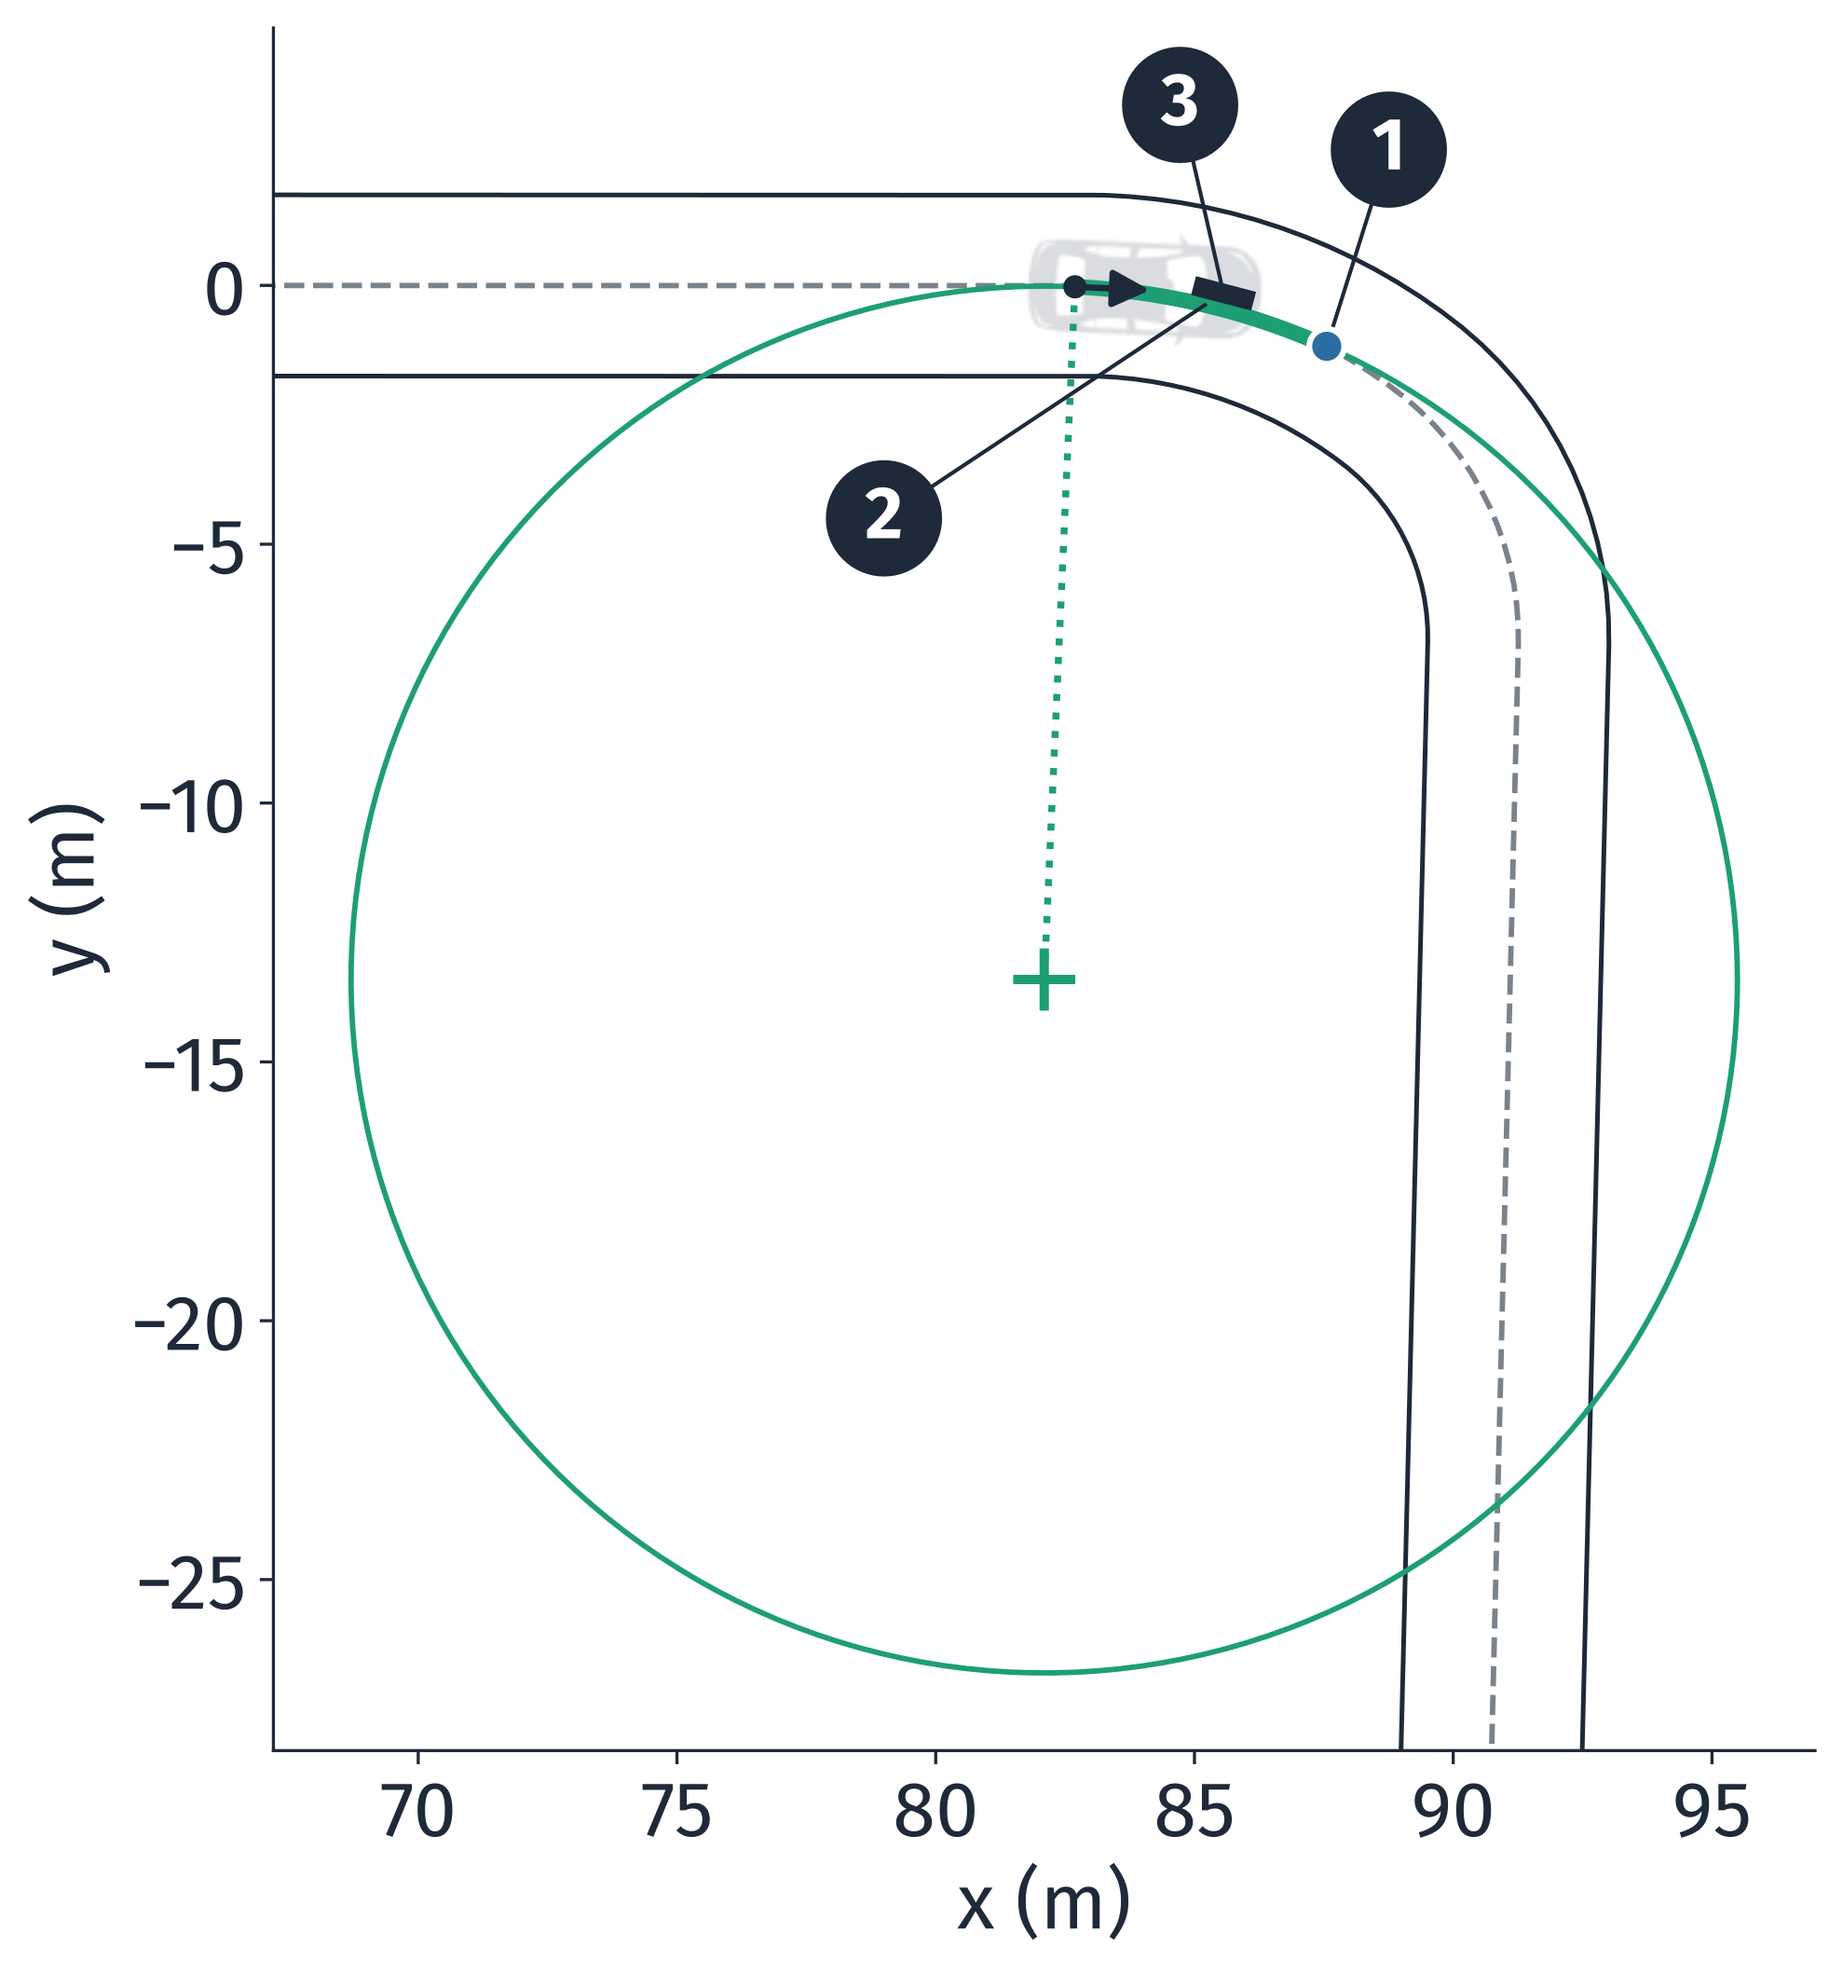
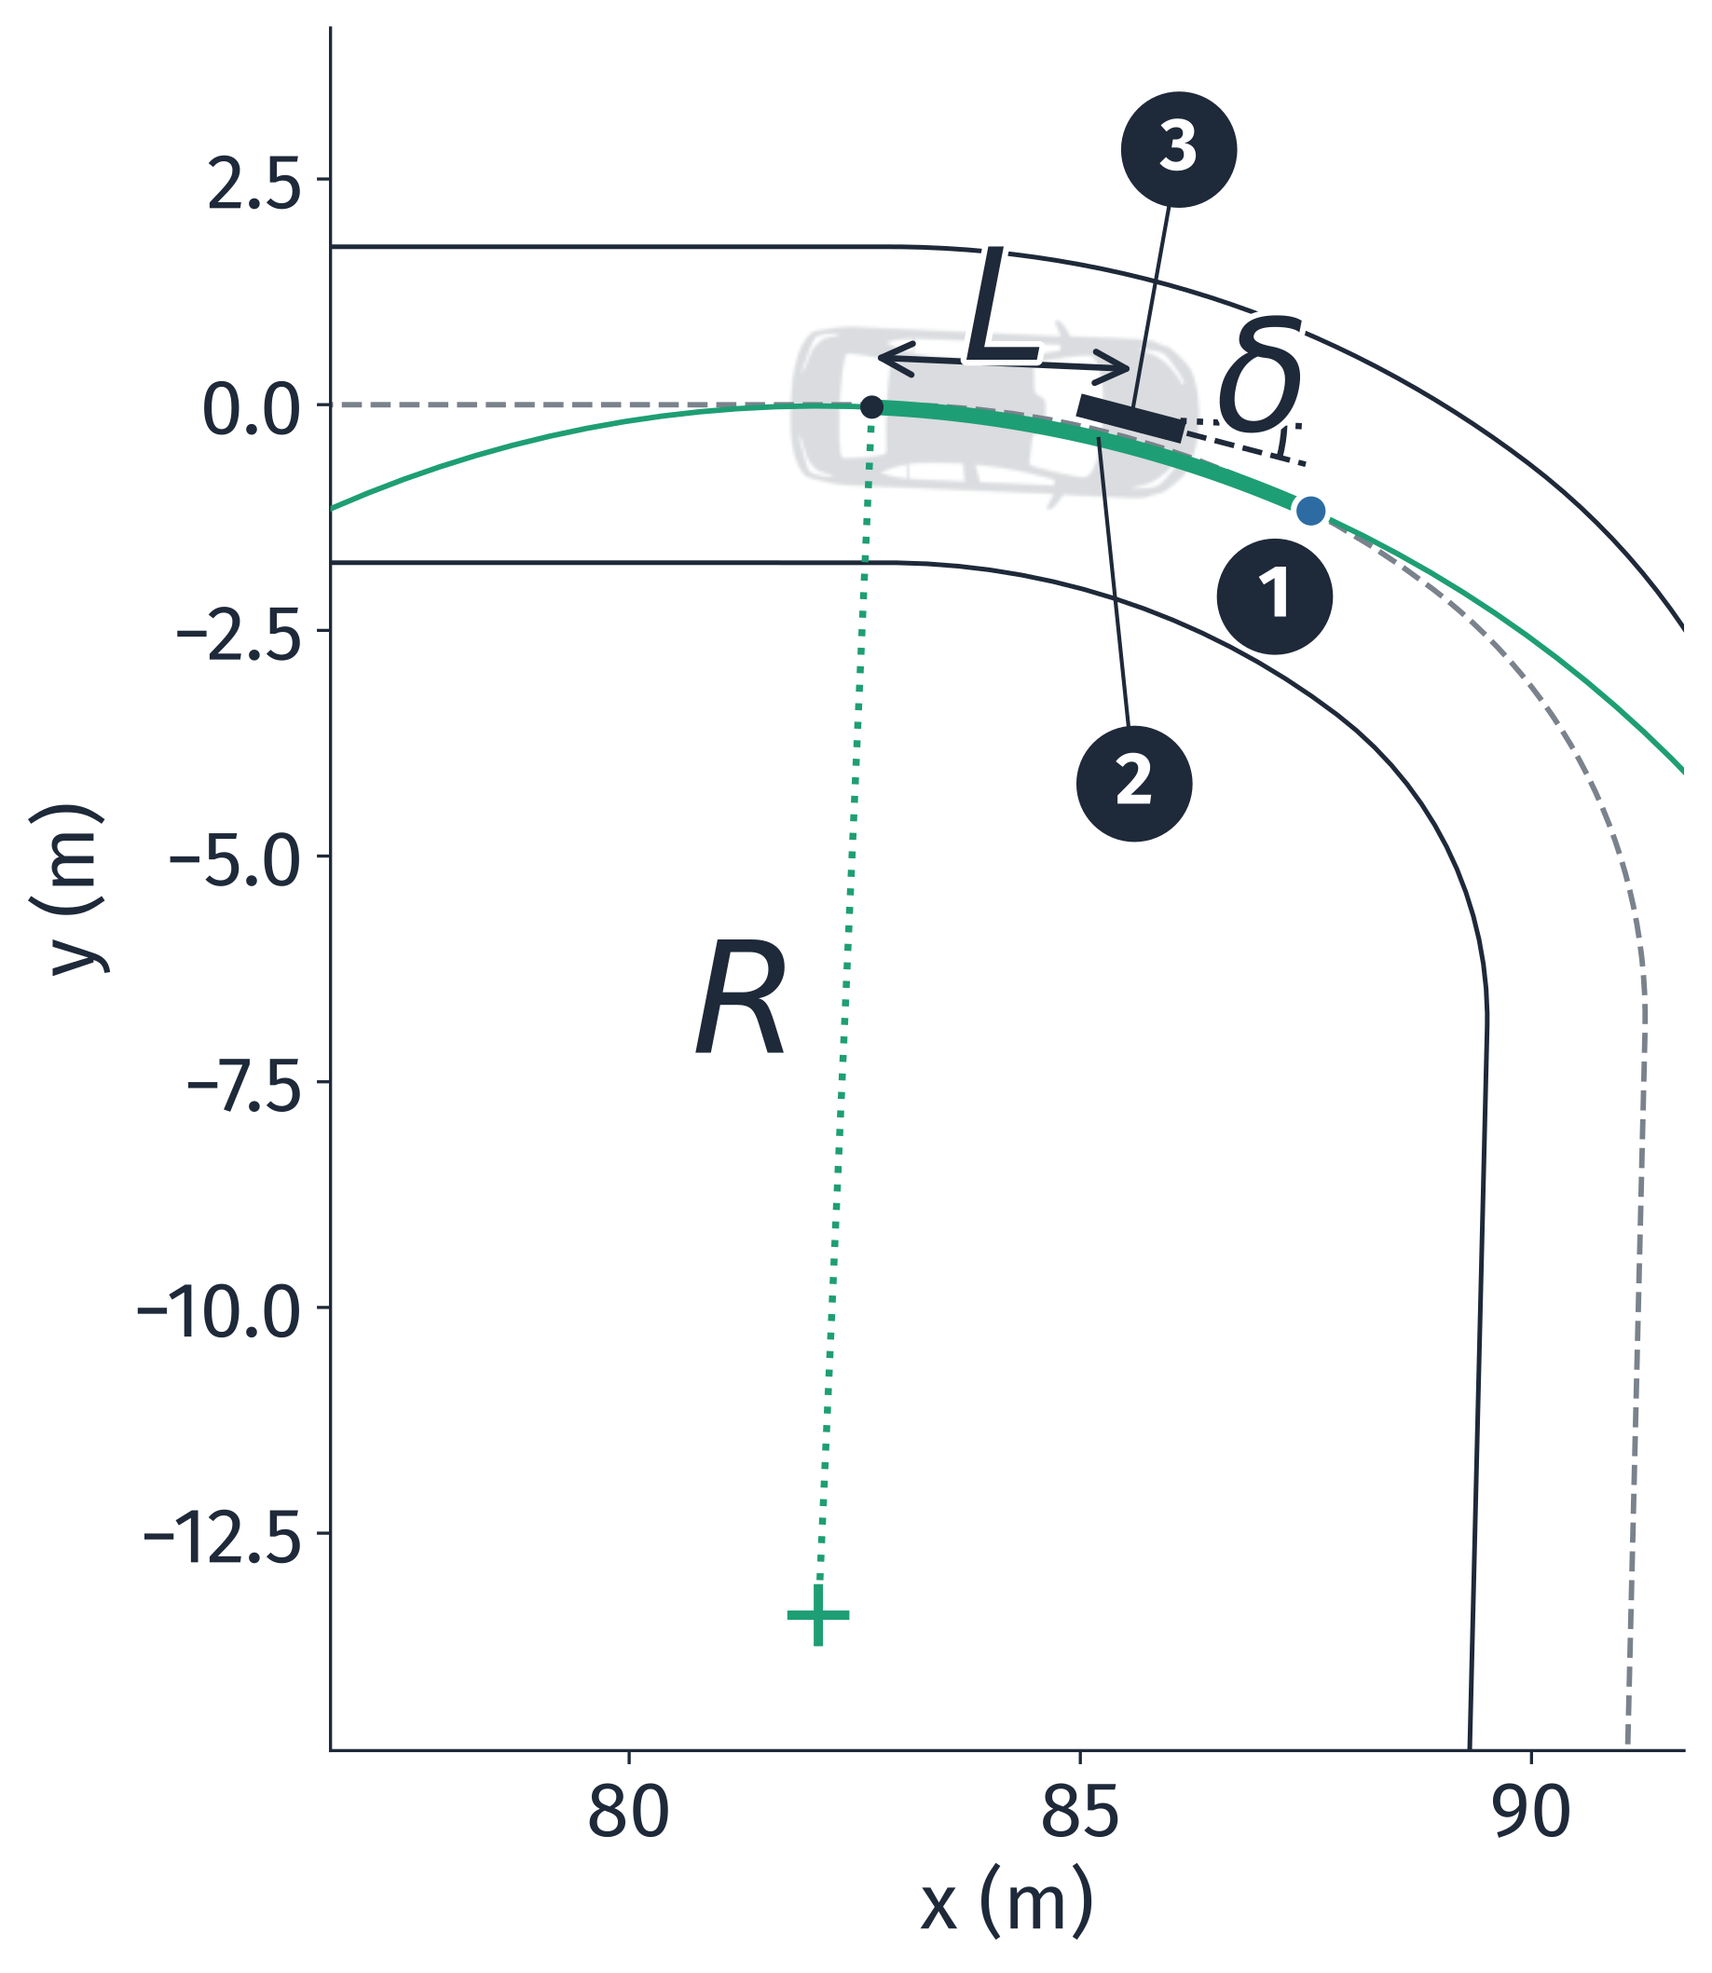
L10: Pure Pursuit step 3 zoomed, with delta, L and R drawn

diff --git a/docs/source/lectures/lecture10/l10_lecture.rst b/docs/source/lectures/lecture10/l10_lecture.rst
@@ -3757,7 +3757,7 @@ Pure Pursuit, Step 3: Steer to Drive That Arc
 ^^^^^^^^^^^^^^^^^^^^^^^^^^^^^^^^^^^^^^^^^^^^^
 
 .. figure:: /_static/images/L10/pp_step_3.png
-   :alt: A top view to scale, x and y in meters, about 30 meters across: the lane between two black edges, its center dashed gray, running right and then bending down after x = 85. A small faint gray AV near x = 82.7, y = 0, its rear axle a black dot with a short arrow along its heading. A thin green circle of radius about 13.4 meters passes through the rear axle, its center a green plus about 13.4 meters below it, joined to the rear axle by a green dotted line. The part of the circle from the rear axle to a blue dot on the lane center near x = 87.6 is thick green, dark tag 2 joined to it by a thin line. Dark tag 1, above the lane, joined by a thin line to the blue dot. At the front axle, a short thick black bar, the front wheel, turned slightly right, dark tag 3 above it joined by a thin line.
+   :alt: A top view to scale, x and y in meters, zoomed on the AV and its turning circle: the lane between two black edges, its center dashed gray, bending down to the right after x = 85. A faint gray AV near x = 82.7, y = 0, its rear axle a black dot. A two-headed arrow L runs inside the car from the rear axle to the front axle. At the front axle, a short thick black bar, the front wheel, dark tag 3 above it joined by a thin line; a dotted line runs straight ahead from it and a dashed line along the wheel, with a small angle delta between them. A thin green circle passes through the rear axle; its center, a green plus about 13.4 meters below, is joined to the rear axle by a green dotted line labeled R. The part of the circle from the rear axle to a blue dot on the lane center near x = 87.6, dark tag 1 just below the dot, is thick green, dark tag 2 joined to it by a thin line.
    :width: 55%
    :align: center
 
